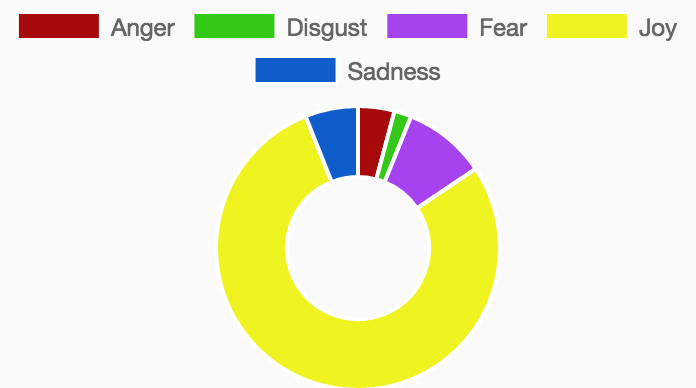
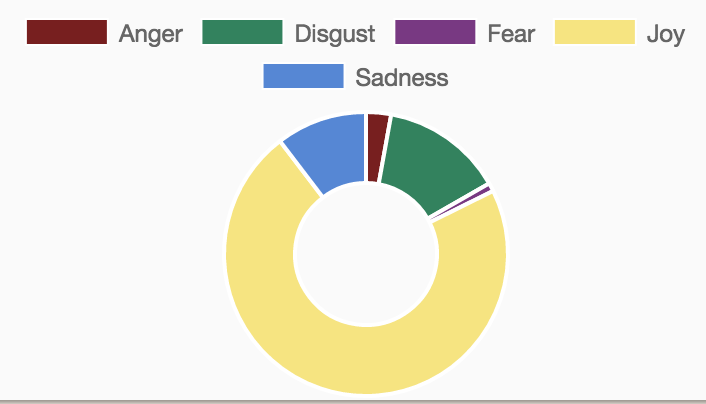
major styling changes

Changed region(s): [[0.0, 0.2784, 1.0, 1.0], [0.0302, 0.0309, 0.7543, 0.2165], [0.7845, 0.0309, 0.9655, 0.1237]]

diff --git a/app/styles/index.css b/app/styles/index.css
@@ -1,6 +1,6 @@
 
 nav {
-  background: #fafafa;
+  background: #f2e9e0;
   color: #4e4d43;
 }
 
@@ -10,11 +10,11 @@ nav .nav-wrapper {
 
 
 .btn {
-  background: orange;
+  background: #FFA500;
 }
 
 .btn:hover {
-  background: orange;
+  background: #FFA500;
 }
 
 .brand-logo {
@@ -23,7 +23,7 @@ nav .nav-wrapper {
 
 .bar {
   height: 50px;
-  background: #efefef;
+  background: #474747;
   margin-top: 3%;
   border-radius: 2px;
 }
@@ -56,6 +56,7 @@ nav .nav-wrapper {
 }
 
 h3 {
+  color: #29292d;
   font-weight: bold;
 }
 
@@ -106,6 +107,10 @@ h3 {
   word-wrap: break-word;
 }
 
+.apiContent {
+  font-size: 18px;
+}
+
 .titleRow {
   margin-bottom: 0px;
 }
@@ -115,7 +120,7 @@ h3 {
 }
 
 #apiTitle {
-  font-size: 20px;
+  font-size: 24px;
   padding-top: 2%;
 }
 
@@ -140,7 +145,20 @@ h3 {
 .sidebtn {
   margin-top: 5%;
   margin-bottom: 5%;
-  background: rgb(3, 155, 229);
+  background: #0288ca;
+}
+
+.sidebtn:hover {
+  margin-top: 5%;
+  margin-bottom: 5%;
+  background: #0288ca;
+}
+
+.blue-text {
+    color: #0288ca !important;
+}
+a {
+  color: rgb(3, 155, 229)
 }
 
 
@@ -174,6 +192,11 @@ h3 {
   padding-left: 10%;
 }
 
+.profilebackground {
+  background: #f2e9e0;
+  overflow-x: hidden;
+}
+
 .noEntries {
   margin-top: 20%;
 }
@@ -181,8 +204,11 @@ h3 {
   margin-top: 10%;
 }
 
-#line, #polar {
-  margin-top: 15%;
+#line {
+  margin-top: 25%;
+}
+#polar{
+  margin-top: 12%;
 }
 
 .emailExp {
@@ -200,9 +226,8 @@ h3 {
   margin-top: 1%;
   margin-left: 5%;
 }
-.dropdown {
-  background-color: blue;
-}
+
+
 .readCard {
   padding-left: 2%;
   padding-right: 2%;
@@ -210,13 +235,13 @@ h3 {
 }
 
 .read {
-  background: green;
+  background: rgb(3, 155, 229);
   margin-bottom: 2%;
   margin-right: 2%;
 }
 
 .read:hover {
-  background: green;
+  background: rgb(3, 155, 229);
 }
 .inline {
   display: inline;
@@ -230,11 +255,11 @@ h3 {
 
 #arrow {
   margin-top: 60%;
+  margin-left: 30%;
 }
 
 .results {
   padding-left: 6% !important;
-  padding-top: 2% !important;
 }
 
 .font:hover {
@@ -271,7 +296,7 @@ html {
 }
 
 body {
-  background-color: #fafafa;
+  background-color: #f2e9e0;
   margin: 0 5% 65px 5%;
 }
 
@@ -309,7 +334,7 @@ body {
   margin-right: -60px;
   background-repeat: no-repeat;
   background-size: cover;
-  background-image: linear-gradient(rgba(0, 0, 0, 0.1),rgba(0, 0, 0, 0.1)), url('http://az616578.vo.msecnd.net/files/2015/12/26/635867526811956096266245127_452830868_0f1406ba87_b.jpg');
+  background-image: linear-gradient(rgba(0, 0, 0, 0.1),rgba(0, 0, 0, 0.1)), url('https://static1.squarespace.com/static/53cf1b78e4b0e9800a539b93/t/53cffe16e4b07647985de5bd/1406139977399/?format=1500w');
 }
 
 .journalBtn {

diff --git a/app/components/Profile.jsx b/app/components/Profile.jsx
@@ -113,23 +113,22 @@ export default class Profile extends React.Component {
 
     return (
       <div>
-      <hr></hr>
       <div className="row userInfo">
       <div className="col s12 m3 l3">
         <img src="http://www.all-about-psychology.com/psychology-fb.jpg"></img>
       </div>
         <div className="col s12 m8 offset-m1 l8 offset-l1 profile">
           <h1 id="name">{name}</h1>
-          <p>Member since: {formattedDT}</p>
-          <p>Total posts: {this.props.entries.length}</p>
+          <p><strong>Member since:</strong> {formattedDT}</p>
+          <p><strong>Journal entries:</strong> {this.props.entries.length}</p>
         </div>
         </div>
       <div className="row">
         <div className="col s12 m3 l3 sidebar">
-          <a className="btn sidebtn"><i className="material-icons right">add</i><Link to="/myjournal" className="white-text">New Entry</Link></a>
-          <a className="btn sidebtn"><Link to="/entries" className="white-text">Past Entries</Link></a>
-          <a className="btn sidebtn"><Link to="/analyzer" className="white-text">Analyzer</Link></a>
-          <a className="btn sidebtn"><Link to="/bigfive" className="white-text">Big Five</Link></a>
+          <a className="btn col s8 sidebtn"><i className="material-icons right">add</i><Link to="/myjournal" className="white-text">New Entry</Link></a>
+          <a className="btn col s8 sidebtn"><Link to="/entries" className="white-text">Past Entries</Link></a>
+          <a className="btn col s8 sidebtn"><Link to="/analyzer" className="white-text">Analyzer</Link></a>
+          <a className="btn col s8 sidebtn"><Link to="/bigfive" className="white-text">Big Five</Link></a>
         </div>
         <div className="col s12 m8 offset-m1 l8 offset-l1">
         <div className="row card timeline center-align">
@@ -151,7 +150,7 @@ export default class Profile extends React.Component {
           <PolarChart entries={this.props.entries}/>
           </div>
           <div className="col s3 m3 l3">
-            <p id="scores"><em>Scores are calculated based on your previous posts and are out of 100. Read about each <Link to="/bigfive">here</Link></em></p>
+            <p id="scores"><em>Scores are calculated based on your previous journal entries and are scored out of 100. Read about each <Link to="/bigfive">here</Link></em></p>
           </div>
 
         </div>

diff --git a/app/components/LineChart.jsx b/app/components/LineChart.jsx
@@ -44,8 +44,8 @@ export default class LineChart extends React.Component {
             label: "Joy",
             fill: false,
             lineTension: 0.1,
-            backgroundColor: "#EFF320",
-            borderColor: "#EFF320",
+            backgroundColor: "#F6E481",
+            borderColor: "#F6E481",
             borderCapStyle: 'butt',
             borderDash: [],
             borderDashOffset: 0.0,
@@ -64,8 +64,8 @@ export default class LineChart extends React.Component {
             label: "sadness",
             fill: false,
             lineTension: 0,
-            backgroundColor: "#0F5DCB",
-            borderColor: "#0F5DCB",
+            backgroundColor: "#5687d4",
+            borderColor: "#5687d4",
             borderCapStyle: 'butt',
             borderDash: [],
             borderDashOffset: 0.0,
@@ -84,8 +84,8 @@ export default class LineChart extends React.Component {
             label: "Anger",
             fill: false,
             lineTension: 0.1,
-            backgroundColor: "#A70A0A",
-            borderColor: "#A70A0A",
+            backgroundColor: "#771F1F",
+            borderColor: "#771F1F",
             borderCapStyle: 'butt',
             borderDash: [],
             borderDashOffset: 0.0,
@@ -104,8 +104,8 @@ export default class LineChart extends React.Component {
             label: "Disgust",
             fill: false,
             lineTension: 0.1,
-            backgroundColor: "#34C916",
-            borderColor: "#34C916",
+            backgroundColor: "#33825e",
+            borderColor: "#33825e",
             borderCapStyle: 'butt',
             borderDash: [],
             borderDashOffset: 0.0,
@@ -124,8 +124,8 @@ export default class LineChart extends React.Component {
             label: "Fear",
             fill: false,
             lineTension: 0.1,
-            backgroundColor: "#A743EE",
-            borderColor: "#A743EE",
+            backgroundColor: "#783982",
+            borderColor: "#783982",
             borderCapStyle: 'butt',
             borderDash: [],
             borderDashOffset: 0.0,

diff --git a/app/components/Home.jsx b/app/components/Home.jsx
@@ -8,6 +8,7 @@ export default class Home extends React.Component {
 
     return (
       <div>
+      <hr></hr>
         <div className="bar"></div>
         <div className="hero">
         <div className="heroText">
@@ -33,7 +34,7 @@ export default class Home extends React.Component {
       <Reveal effect="animated fadeInRight">
       <div className="col s12 l6 m6 center-align">
         <img id="doughnut" src="./img/doughnut.png" alt="doughnut chart" width="75%" height="75%"></img>
-        <p>Here are your results!</p>
+        <p className="explanation">Immediate analysis!</p>
       </div>
       </Reveal>
       </div>
@@ -41,7 +42,7 @@ export default class Home extends React.Component {
       <div className="row middleSections">
       <Reveal effect="animated fadeInLeft">
       <div className="col s12 l6 m6 center-align">
-      <img id="line" src="./img/line.png" alt="line chart" width="85%" height="95%"></img>
+      <img id="line" src="./img/line.png" alt="line chart" width="95%" height="120%"></img>
       </div>
       </Reveal>
       <Reveal effect="animated fadeInRight">
@@ -106,7 +107,7 @@ export default class Home extends React.Component {
       <img id="arrow" src="./img/arrow.png" alt="arrow" width="100%" height="100%"></img>
       </div>
       <div className="col s5 l5 m5 results">
-      <img src="./img/results.png" alt="results image" width="50%" height="20%"></img>
+      <img src="./img/results.png" alt="results image" width="75%" height="100%"></img>
       </div>
       </div>
       <div className="row center-align">

diff --git a/app/components/Donors.jsx b/app/components/Donors.jsx
@@ -45,10 +45,10 @@ export default class Donors extends React.Component {
         <div className="row">
           <img className="col s4" id="apiImg" src={this.state.apiData.imageURL}></img>
           <div className="col s7">
-          <p><strong>Title: </strong><i>{this.state.apiData.title}</i></p>
-          <p><strong>Location:</strong> {this.state.apiData.city}, {this.state.apiData.state}</p>
-          <p><strong>Need:</strong> {this.state.apiData.fulfillmentTrailer}</p>
-          <p><strong>Number of Students:</strong> {this.state.apiData.numStudents}</p>
+          <p className="apiContent"><strong>Title: </strong><i>{this.state.apiData.title}</i></p>
+          <p className="apiContent"><strong>Location:</strong> {this.state.apiData.city}, {this.state.apiData.state}</p>
+          <p className="apiContent"><strong>Need:</strong> {this.state.apiData.fulfillmentTrailer}</p>
+          <p className="apiContent"><strong>Number of Students:</strong> {this.state.apiData.numStudents}</p>
           <blockquote>{this.state.apiData.shortDescription}</blockquote>
           <div className="row center-align">Click<a href={this.state.apiData.fundURL} target="_blank"> Here</a> to help or learn more</div>
           </div>

diff --git a/app/components/Entry.jsx b/app/components/Entry.jsx
@@ -39,7 +39,7 @@ export default class Entry extends React.Component {
         {
           label: "Watson Summary",
           data: [data.anger, data.disgust, data.fear, data.joy, data.sadness],
-          backgroundColor: ['#A70A0A', '#34C916', '#A743EE', '#EFF320', '#0F5DCB' ],
+          backgroundColor: ['#771F1F', '#33825e', '#783982', '#F6E481', '#5687d4' ],
         }
       ]
     }
@@ -59,7 +59,7 @@ export default class Entry extends React.Component {
             <p className="strong">{formattedDate}</p>
             <p>{body}</p>
             <div className="row inline">
-            <a className="btn read"><Link to={`/entry/${this.props.data.id}`} className="white-text">Read More</Link></a>
+            <a className="btn read"><Link to={`/entry/${this.props.data.id}`} className="white-text">Read</Link></a>
             <a className="btn delete" onClick={this.deletePost.bind(this)}>Delete</a>
             </div>
             </div>

diff --git a/app/components/Analyzer.jsx b/app/components/Analyzer.jsx
@@ -62,7 +62,7 @@ export default class Analyzer extends React.Component {
 
     if (entry) {
       highest = Object.keys(entry).reduce(function(a, b){ return entry[a] > entry[b] ? a : b });
-      console.log(highest);
+      highest = highest[0].toUpperCase() + highest.slice(1);
     }
       return (
         <div className="center-align analyzer">
@@ -76,7 +76,7 @@ export default class Analyzer extends React.Component {
             <h1>Input your email, message, or blog post and we'll analyze it for you</h1>
             <div className="row">
             <div className="input-field col s12 col l8 offset-l2 col m8 offset-m2">
-                   <textarea id="textarea2" ref="body" placeholder="enter text here"></textarea>
+                   <textarea id="textarea2" ref="body" placeholder="enter text here" autoFocus></textarea>
                 </div>
               </div>
               <div className="row">

diff --git a/app/components/Instructables.jsx b/app/components/Instructables.jsx
@@ -46,9 +46,9 @@ export default class Instructables extends React.Component {
         <div className="row">
           <img className="col s4" src={this.state.apiData.imageUrl}></img>
           <div className="col s7">
-          <p><strong>Title: </strong><i>{this.state.apiData.title}</i></p>
-          <p><strong>Category:</strong> {this.state.apiData.category}</p>
-          <p><strong>Author:</strong> {this.state.apiData.author}</p>
+          <p className="apiContent"><strong>Title: </strong><i>{this.state.apiData.title}</i></p>
+          <p className="apiContent"><strong>Category:</strong> {this.state.apiData.category}</p>
+          <p className="apiContent"><strong>Author:</strong> {this.state.apiData.author}</p>
           <div className="row center-align instructables">Click<a href={URL} target="_blank"> Here</a> to learn how to make it</div>
           </div>
         </div>

diff --git a/app/components/MessageChart.jsx b/app/components/MessageChart.jsx
@@ -16,7 +16,7 @@ export default class MessageChart extends React.Component {
         {
           label: "Watson Summary",
           data: [data.anger, data.disgust, data.fear, data.joy, data.sadness],
-          backgroundColor: ['#A70A0A', '#34C916', '#A743EE', '#EFF320', '#0F5DCB' ],
+          backgroundColor: ['#771F1F', '#33825e', '#783982', '#F6E481', '#5687d4' ],
         }
       ]
     }

diff --git a/app/components/Main.jsx b/app/components/Main.jsx
@@ -127,7 +127,8 @@ export default class Main extends React.Component {
               authUser={this.props.authUser}
               />
           </Headroom>
-          <div>
+          <hr></hr>
+          <div className="profilebackground">
           <Profile
                       entries={this.props.entries}
                       getEntries={this.props.getEntries}
